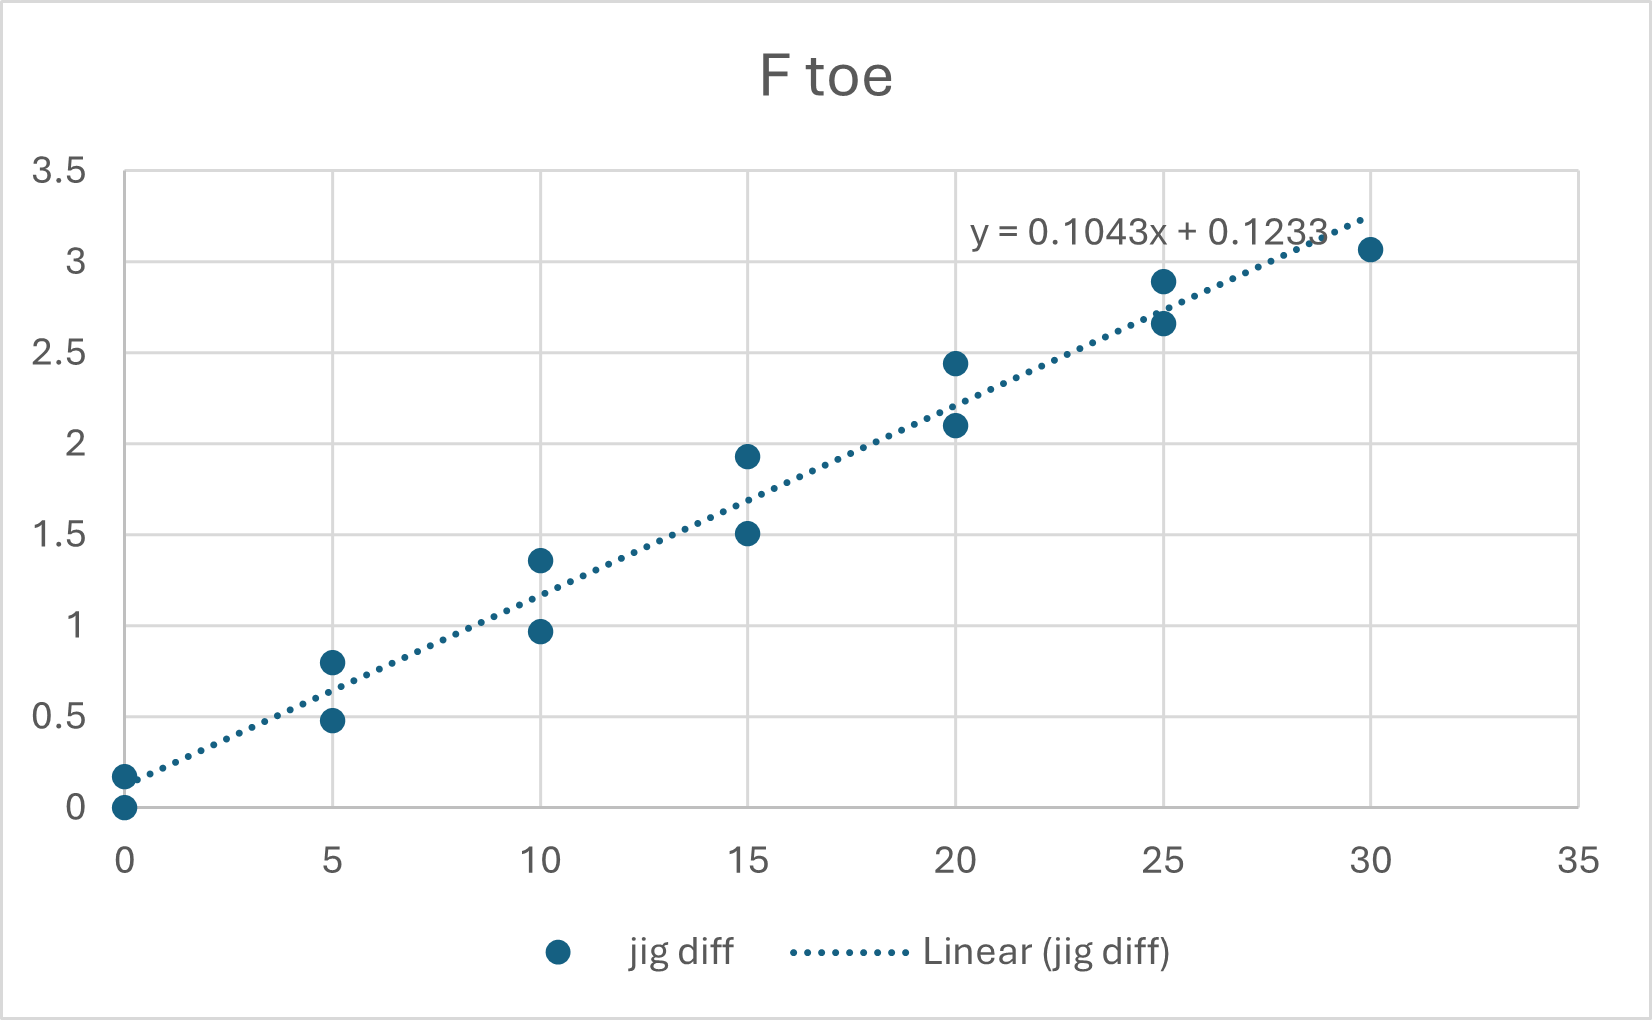
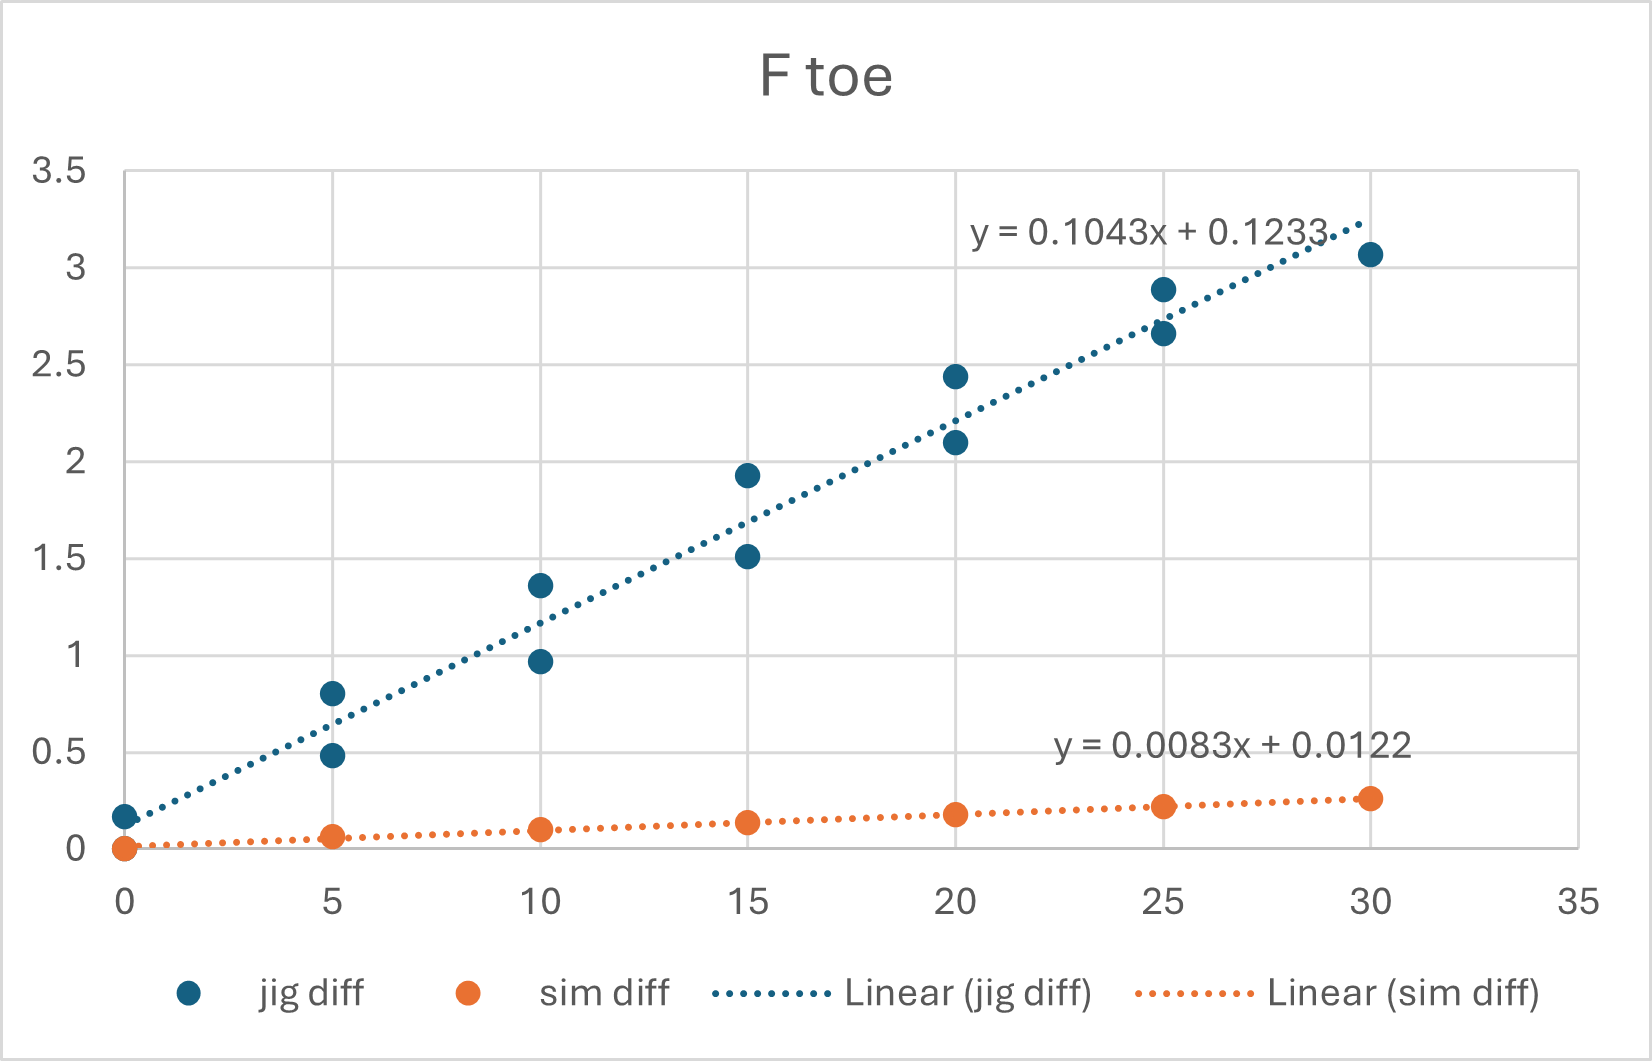
final update

diff --git a/index.html b/index.html
@@ -134,7 +134,7 @@
         <h3>2.1. Plumbing and installation</h3>
         <p>
           Brake lines were manufactured and installed onto the car. R26e utilizes 3AN stainless steel braided lines for its 
-          brake system. Stainless steel braided lines are both extremely durable and rigig, which helps to ensure maximum effectiveness 
+          brake system. Stainless steel braided lines are both extremely durable and rigid, which helps to ensure maximum effectiveness 
           of the braking system. Softer rubber lines are easier to route, but they can expand under pressure and lead to a soft 
           pedal. A combination of direct thread and banjo hose ends were used depending on the location and accessibility 
           of the connection. The BOM is as follows:
@@ -638,9 +638,6 @@
       </image-component>
       
     <br />
-    <p>
-      (Word Count:
-    </p>
     <br />
     <sl-divider></sl-divider>
     <div>
